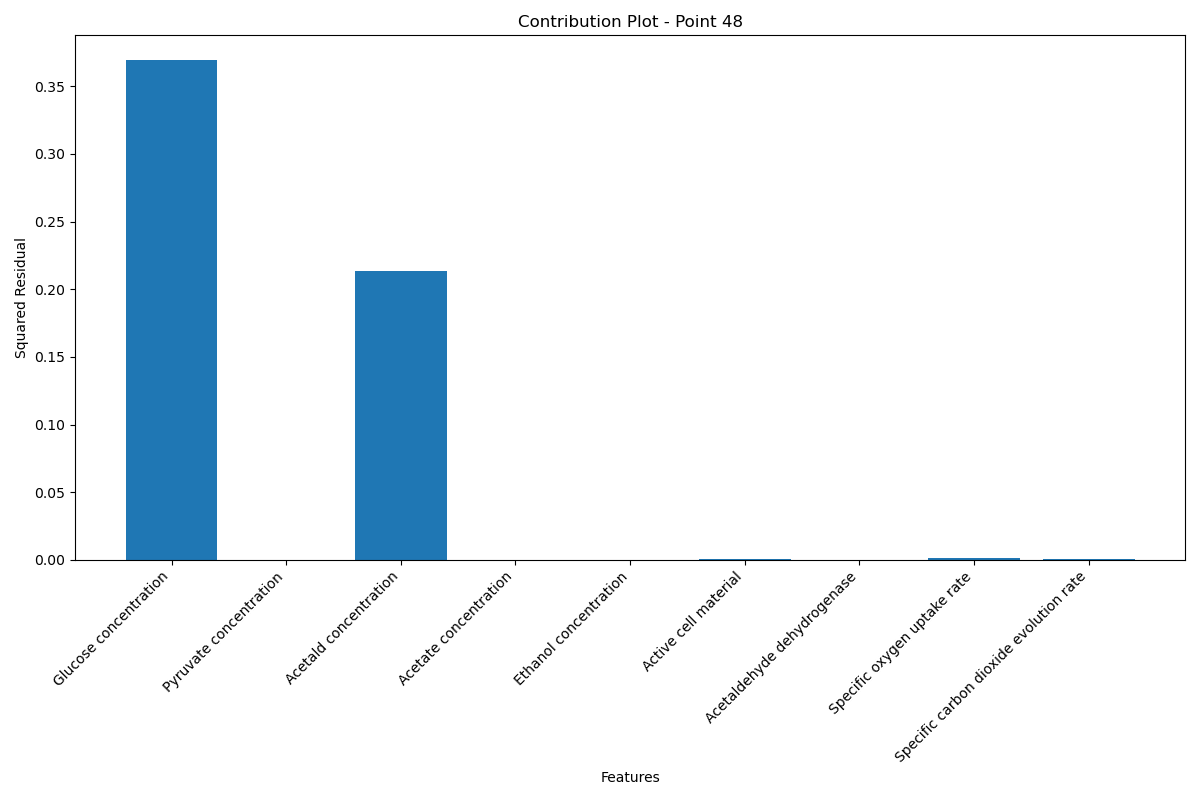
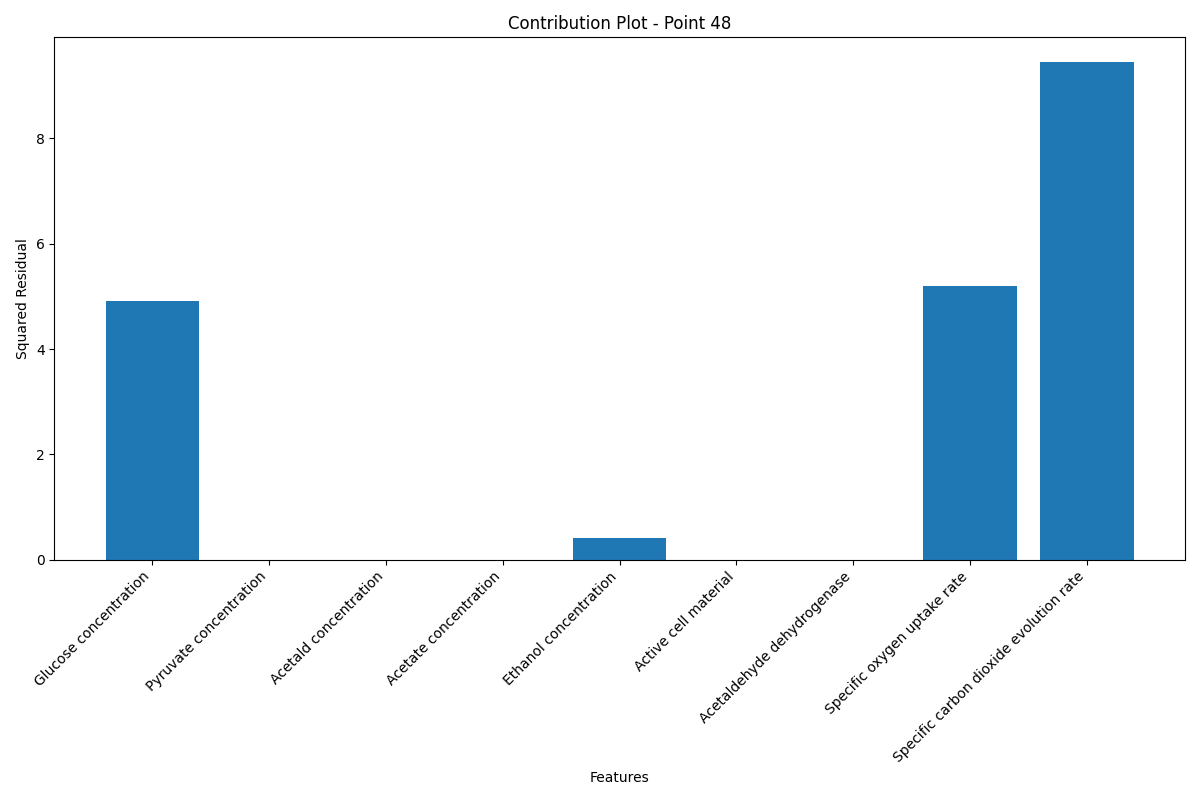
change mean-centering to standardization to apply to non-spectral data

diff --git a/src/pca_modeling.py b/src/pca_modeling.py
@@ -57,18 +57,19 @@ def train_local_pca(X_local, n_components=3, alpha=0.95):
         X_local = X_local.reshape(1, -1)
     
         
-    # 手动中心化数据
+    # 手动标准化数据
     X_mean = np.mean(X_local, axis=0)
-    X_centered = X_local - X_mean
+    X_std = np.std(X_local, axis=0)
+    X_standardized = (X_local - X_mean) / X_std
     
 
     # 拟合PCA
     pca = PCA(n_components=n_components, svd_solver='full')
-    pca.fit(X_centered)
+    pca.fit(X_standardized)
 
 
     # 使用协方差矩阵计算完整特征值
-    cov = np.cov(X_centered, rowvar=False)
+    cov = np.cov(X_standardized, rowvar=False)
     eigenvals_full = np.sort(eigvalsh(cov))[::-1]
     eigenvals_unused = eigenvals_full[n_components:]
 
@@ -78,6 +79,7 @@ def train_local_pca(X_local, n_components=3, alpha=0.95):
     return {
         'P': pca.components_.T,         # 主成分方向矩阵
         'X_mean': X_mean,               # 数据均值
+        'X_std': X_std,                 # 数据标准差
         'Q_lim': Q_lim,                 # 该local MSPC模型的Q统计量控制限
         'explained_variance': pca.explained_variance_
     }

diff --git a/src/monitoring.py b/src/monitoring.py
@@ -23,13 +23,17 @@ def monitor_new_point(x_k, models):
     for model in models:
         P = model['P']
         X_mean = model['X_mean']
+        X_std = model['X_std']
         Q_lim = model['Q_lim']
 
-        x_centered = x_k - X_mean   #中心化
-        t = x_centered @ P          #投影
-        x_hat = t @ P.T + X_mean    #重构观测点x_k
-        e = x_k - x_hat             #计算重构误差向量e
-        Q = np.sum(e**2)
+        x_standardized = (x_k - X_mean) / X_std     #标准化
+        t = x_standardized @ P                      #投影
+        x_hat = (t @ P.T) * X_std + X_mean          #重构观测点x_k (在原始单位下）
+        e = x_k - x_hat                             #计算重构误差向量e（原始单位）
+        Q = np.sum(e ** 2)
+        # x_hat_standardized = t @ P.T
+        # e_standardized = x_standardized - x_hat_standardized
+        # Q = np.sum(e_standardized ** 2)
         Qr = Q / Q_lim
         Qr_all.append(Qr)
 

diff --git a/src/diagnostics.py b/src/diagnostics.py
@@ -31,11 +31,12 @@ def get_contribution_vector(x_k, models, Qr_k_all, use_latest_noc_model=False, l
     model = models[model_idx]
     P = model['P']
     X_mean = model['X_mean']
+    X_std = model['X_std']
 
-    x_centered = x_k - X_mean
-    t = x_centered @ P
-    x_hat = t @ P.T + X_mean
-    e = x_k - x_hat
+    x_standardized = (x_k - X_mean) / X_std     # 标准化
+    t = x_standardized @ P                      # 投影到主成分
+    x_hat = (t @ P.T) * X_std + X_mean          # 重构（到原始单位）
+    e = x_k - x_hat                             # 计算重构误差/残差（在原始单位下）
 
     return e, model_idx
 

diff --git a/run_demo.py b/run_demo.py
@@ -50,9 +50,10 @@ def run_whole_process(X_augmented, new_batch, n_components=2, G=10, ALPHA=0.95, 
 
     # Step 2: 全局PCA并获得得分矩阵
     X_mean = np.mean(X_augmented, axis=0)
-    X_centered = X_augmented - X_mean
+    X_std = np.std(X_augmented, axis=0)
+    X_standardized = (X_augmented - X_mean) / X_std
     pca_global = PCA(n_components=n_components)
-    T_all = pca_global.fit_transform(X_centered)
+    T_all = pca_global.fit_transform(X_standardized)
 
     # Step 3: KMeans聚类
     labels, centers = perform_kmeans(T_all, n_clusters=G)

diff --git a/src/clustering.py b/src/clustering.py
@@ -116,7 +116,10 @@ def build_cluster_path_mst(centers: np.ndarray) -> list:
     # Step 4: 插入未包含的剩余节点（最近邻插入）
     full_order = main_path.copy()
     unused = set(range(G)) - set(full_order)
+    counter=1
     while unused:
+        print(f"插值{counter}次")
+        counter+=1
         insert_idx = unused.pop()
         # 找到full_order中距离该点最近的位置插入
         dists = {i: np.linalg.norm(centers[insert_idx] - centers[i]) for i in full_order}

diff --git a/test2.py b/test2.py
@@ -9,7 +9,7 @@ def main():
     new_batch_filepath = "data/example_newbatch_B64_Faulty.csv"
     new_batch = load_data(new_batch_filepath).iloc[:,2:]
 
-    run_whole_process(X_augmented, new_batch, n_components=3,  Mannual_Path=True)
+    run_whole_process(X_augmented, new_batch, n_components=3,  Mannual_Path=False, G=30)
 
 
 

diff --git a/test4.py b/test4.py
@@ -9,7 +9,7 @@ def main():
     new_batch_filepath = "data/example_newbatch_B89_Faulty.csv"
     new_batch = load_data(new_batch_filepath).iloc[:,2:]
 
-    run_whole_process(X_augmented, new_batch, n_components=3,  Mannual_Path=True)
+    run_whole_process(X_augmented, new_batch, n_components=3,  Mannual_Path=False, G=30)
 
 
 

diff --git a/test3.py b/test3.py
@@ -9,7 +9,7 @@ def main():
     new_batch_filepath = "data/example_newbatch_B41_NOC.csv"
     new_batch = load_data(new_batch_filepath).iloc[:,1:]
 
-    run_whole_process(X_augmented, new_batch, n_components=3,  Mannual_Path=False)
+    run_whole_process(X_augmented, new_batch, n_components=3,  Mannual_Path=False, G=30)
 
 
 

diff --git a/test1.py b/test1.py
@@ -9,7 +9,7 @@ def main():
     new_batch_filepath = "data/example_newbatch_B64_Faulty.csv"
     new_batch = load_data(new_batch_filepath).iloc[:,2:]
 
-    run_whole_process(X_augmented, new_batch, n_components=3,  Mannual_Path=False)
+    run_whole_process(X_augmented, new_batch, n_components=2,  Mannual_Path=False)
 
 
 
